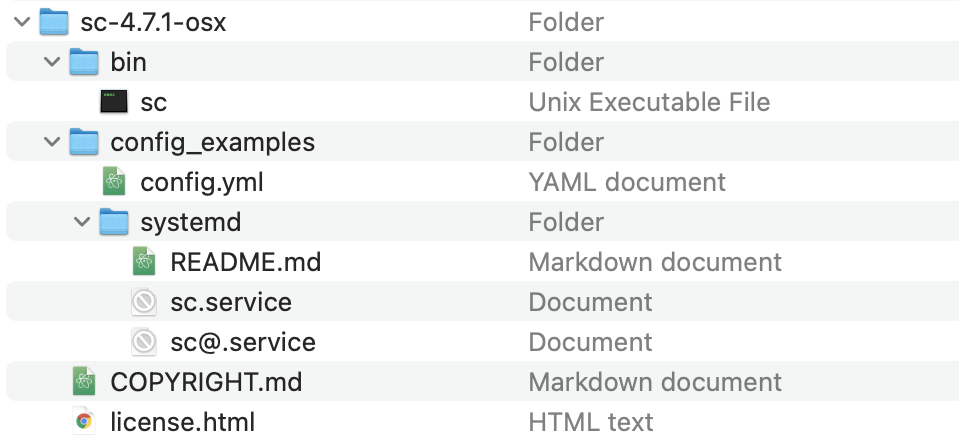
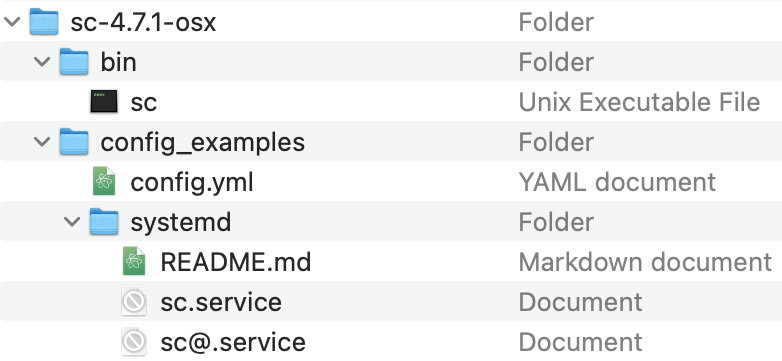
SC quickstart

diff --git a/docs/secure-connections/sauce-connect/quickstart.md b/docs/secure-connections/sauce-connect/quickstart.md
@@ -14,14 +14,17 @@ Using older Sauce Connect versions may impact your ability to launch a tunnel or
 
 Get up and running with a basic Sauce Connect Proxy tunnel in minutes using the steps below.
 
+
 ## What You'll Need
 
-* Have the [latest Sauce Connect Proxy client version](/secure-connections/sauce-connect/installation) downloaded to your local machine's home directory.
+* Have the [Sauce Connect Proxy client](/secure-connections/sauce-connect/installation) downloaded to your local machine.
+
 
 ## Start Tunnel
 
-1. Open your local terminal and navigate to the bin folder, which contains the Sauce Connect Proxy client.<br/><img src={useBaseUrl('img/sauce-connect/scp-bin.png')} alt="Sauce Connect download file contents" width="350" />
+These instructions assume that Sauce Connect Proxy is downloaded to your machine's home directory (i.e., ~/sc-4.7.1-osx).
 
+1. Open your local terminal and navigate to the bin folder, which contains the Sauce Connect Proxy client.
   <Tabs
     defaultValue="Mac"
     values={[
@@ -44,6 +47,8 @@ Get up and running with a basic Sauce Connect Proxy tunnel in minutes using the 
   </TabItem>
   </Tabs>
 
+  <img src={useBaseUrl('img/sauce-connect/scp-bin.png')} alt="Sauce Connect download file contents" width="350" />
+
 2. Log in to Sauce Labs.
 3. Go to the **Tunnels** page.<br/><img src={useBaseUrl('img/sauce-connect/tunnelsPage.png')} alt="Sauce Connect Proxy Tunnels page" width="200"/>
 4. On the **Tunnels** page, skip to **STEP 3: Configure & Authenticate** and copy the run command. This snippet contains your [username](/dev/cli/sauce-connect-proxy/#--user), [access key](/dev/cli/sauce-connect-proxy/#--api-key), [data center](/dev/cli/sauce-connect-proxy/#--region), and a [tunnel name](/dev/cli/sauce-connect-proxy/#--tunnel-name).<br/><img src={useBaseUrl('img/sauce-connect/configureAuth.png')} alt="Sauce Connect Proxy Tunnels page snippet" width="500"/>
@@ -52,12 +57,12 @@ Get up and running with a basic Sauce Connect Proxy tunnel in minutes using the 
 
 ## Verify Tunnel Success
 
-7. To verify that your tunnel is up and running, there are two places you can check: the [command-line interface](/secure-connections/sauce-connect/proxy-tunnels/#command-line-interface) and [**Tunnels** page](/secure-connections/sauce-connect/proxy-tunnels/#tunnels-page).
+7. To verify that your tunnel is up and running, there are two places you can check: the [CLI](/secure-connections/sauce-connect/proxy-tunnels/#command-line-interface) or the [**Tunnels** page](/secure-connections/sauce-connect/proxy-tunnels/#tunnels-page).
 
 
 ## Run Local Test
 
-Try running a Live Cross-Browser or Mobile App local test through your tunnel. Sauce Connect is required to run a test on app or website that's on your local machine or behind a firewall.
+Try running a Live local test (either Cross-Browser or Mobile App) through your tunnel. Sauce Connect is required to run a test on an app or website located on your local machine or behind a firewall.
 
 <Tabs
     defaultValue="Web"
@@ -69,48 +74,35 @@ Try running a Live Cross-Browser or Mobile App local test through your tunnel. S
 
 <TabItem value="Web">
 
-9. Go back to Sauce Labs and click **LIVE** > **Cross Browser** > **Desktop** tab.
-10. Select desired configuration:
-    * In the **URL** field, input the URL for your local website under test (e.g., `http://localhost:3000`).
-    * Click the **Sauce Connect Proxy** dropdown and select the name of the tunnel you've launched.
-    * Choose a **BROWSER SELECTION**, **RESOLUTION**, and **OS VERSION** from those dropdown menus.
-    * Click **Start Test** to launch your test.
-11. Use your mouse cursor and keyboard to interact with your website under test. For more details, see [Live Desktop Test Interface](/web-apps/live-testing/live-cross-browser-testing/#live-desktop-test-interface). When you're done testing, move to the next step to learn how to stop a tunnel.
+8. From Sauce Labs, click **Live** > **Cross Browser** > **Desktop**.
+9. Enter the URL for your local website under test (e.g., `http://localhost:3000`), select your tunnel from the **Sauce Connect Proxy** dropdown, and choose your [desired browser configuration](/web-apps/live-testing/live-cross-browser-testing/#testing-on-a-desktop-browser).
+10. Click **Start Test** to launch your test, then use your mouse cursor and keyboard to [interact with your website under test](/web-apps/live-testing/live-cross-browser-testing/#live-desktop-test-interface).
 
 </TabItem>
 <TabItem value="Mobile Browser">
 
-9. Go back to Sauce Labs and click **LIVE** > **Cross Browser** > **Mobile Virtual** or **Mobile Real** tab.
-10. Select desired configuration:
-    * In the **URL** field, input the URL for your local website under test (e.g., `http://localhost:3000`).
-    * Click the **Sauce Connect Proxy** dropdown and select the name of the tunnel you've launched.
-    * For **Mobile Virtual**, choose a **MANUFACTURER**, **DEVICE**, and **OS VERSION** from those dropdown menus. For **Mobile Real**, click a device from the menu.
-    * Click **Start Test** to launch your test.
-11. Use your mouse cursor and keyboard to interact with your website under test. For more details, see [Testing on a Mobile Browser](/web-apps/live-testing/live-cross-browser-testing/#testing-on-a-mobile-browser). When you're done testing, move to the next step to learn how to stop a tunnel.
+8. From Sauce Labs, click **Live** > **Cross Browser** > **Mobile Virtual** or **Mobile Real**.
+9. Enter the URL for your local website under test (e.g., `http://localhost:3000`), select your tunnel from the **Sauce Connect Proxy** dropdown, and choose your [**Mobile Virtual**](/web-apps/live-testing/live-cross-browser-testing/#virtual-device) or [**Mobile Real** configuration](/web-apps/live-testing/live-cross-browser-testing/#real-device).
+10. Click **Start Test** to launch your test, then use your mouse cursor and keyboard to [interact with your site under test](/web-apps/live-testing/live-cross-browser-testing/#testing-on-a-mobile-browser).
 
 </TabItem>
 <TabItem value="Mobile App">
 
-9. If you want to test a native mobile app, you'll need to [upload it to Sauce Storage](/mobile-apps/live-testing/live-mobile-app-testing/#uploading-an-app) or to [another location](/mobile-apps/app-storage/#uploading-apps-via-rest-api) where our emulators, simulators, and real devices can connect to it.
-10. Hover your mouse over the app line item and click **Choose Device**, then select desired configuration:
-    * Click the **Sauce Connect Proxy** dropdown and select the name of the tunnel you've launched.
-    * For **Mobile Virtual**, choose a **MANUFACTURER**, **DEVICE**, and **OS VERSION** from those dropdown menus. For **Mobile Real**, click a device from the menu.
-    * Click **Start Test** to launch your test.
-11. Use your mouse cursor and keyboard to interact with your website under test. For more details, see [Live Mobile App Test Interface](/mobile-apps/live-testing/live-mobile-app-testing/#live-test-interface). When you're done testing, move to the next step to learn how to stop a tunnel.
+8. Upload your native mobile app file to [Sauce Storage](/mobile-apps/live-testing/live-mobile-app-testing/#uploading-an-app) or to another location where our emulators, simulators, and real devices can connect to it (see [Uploading via REST API](/mobile-apps/app-storage/#uploading-apps-via-rest-api)).
+9. [Choose your device](/mobile-apps/live-testing/live-mobile-app-testing/#selecting-a-device), select your desired [**Mobile Virtual**](/mobile-apps/live-testing/live-mobile-app-testing/#virtual-devices) or [**Mobile Real**](/mobile-apps/live-testing/live-mobile-app-testing/#real-devices) configuration, and select your tunnel from the **Sauce Connect Proxy** dropdown.
+10. Click **Start Test** to launch your test, then use your mouse cursor and keyboard to [interact with your app under test](/mobile-apps/live-testing/live-mobile-app-testing/#live-test-interface).
 
 </TabItem>
 </Tabs>
 
 ## Stop Tunnel
 
-12. To stop your tunnel, choose from one of the below options:
-    * [Command Line (Using Ctrl+C)](/secure-connections/sauce-connect/proxy-tunnels/#to-stop-a-single-tunnel-ctrlc)
-    * [Tunnels Page (Using Stop button)](/secure-connections/sauce-connect/proxy-tunnels/#to-stop-a-single-tunnel)
+11. To stop your tunnel when you're finished testing, you can do so from the [CLI](/secure-connections/sauce-connect/proxy-tunnels/#to-stop-a-single-tunnel-ctrlc) or [Tunnels Page](/secure-connections/sauce-connect/proxy-tunnels/#from-the-tunnels-page).
 
 
 ## More Information
 
 * [Sauce School | Sauce Connect Proxy Course](https://training.saucelabs.com/sauceconnect/)
 * [Sauce Connect Proxy CLI](/dev/cli/sauce-connect-proxy/)
-* [Sauce Connect Proxy Configurations](/secure-connections/sauce-connect/setup-configuration/basic-setup/)
-* [Recommended: Set Your Username and Access Key as Environment Variables](/secure-connections/sauce-connect/setup-configuration/environment-variables/)
+* [Sauce Connect Proxy Basic Configuration](/secure-connections/sauce-connect/setup-configuration/basic-setup/)
+* [Setting Your Username and Access Key as Environment Variables](/secure-connections/sauce-connect/setup-configuration/environment-variables/)

diff --git a/docs/secure-connections/sauce-connect/installation.md b/docs/secure-connections/sauce-connect/installation.md
@@ -15,40 +15,33 @@ This topic describes where and how to download Sauce Connect Proxy to your local
 * Review [Sauce Connect Proxy System and Network Requirements](/secure-connections/sauce-connect/system-requirements/).
 
 
-## Running the Sauce Connect Proxy Client
+## Sauce Connect Proxy Client
 
-1. Download the latest Sauce Connect Proxy client to your local machine by clicking the link below corresponding to your OS. If applicable, delete any previous versions you have. Using older versions may impact your ability to launch a tunnel or cause other technical issues.
+1. Download the latest Sauce Connect Proxy client to your local machine by clicking the link below corresponding to your OS.
   <ScTable></ScTable>
 
-  For version information, see [Sauce Connect Proxy Changelog](https://changelog.saucelabs.com/en?category=sauce%20connect).
+  If applicable, delete any previous versions you have. Using older versions may impact your ability to launch a tunnel or cause other technical issues.
 
+2. Extract the contents of the .zip download to your local machine. For easy access, we recommend saving the Sauce Connect Proxy folder to your home directory (i.e., ~/sc-4.7.1-osx).
 
-2. Extract the contents of the .zip download to your local machine. For easy access, we recommend saving the Sauce Connect Proxy folder to your home directory. The folder contains the following:<br/><img src={useBaseUrl('img/sauce-connect/scp-download.png')} alt="Sauce Connect download file contents" width="450" />
+  The folder contains the following:<br/><img src={useBaseUrl('img/sauce-connect/scp-download.png')} alt="Sauce Connect download file contents" width="400" />
   <table>
   <tr>
-   <td><strong>File</strong></td>
+   <td>File</td>
    <td>Description</td>
   </tr>
   <tr>
-    <td><strong>sc</strong> (Mac) / <strong>sc.exe</strong> (Windows)</td>
-    <td>Sauce Connect client executable file.</td>
+    <td><strong>sc</strong> (macOS) or <strong>sc.exe</strong> (Windows)</td>
+    <td>Sauce Connect Proxy client executable file.</td>
    </tr>
    <tr>
     <td><strong>config.yml</strong></td>
-   <td><a href="/secure-connections/sauce-connect/setup-configuration/yaml-config">Sauce Connect Proxy YAML configuration file template</a>.</td>
+   <td>Sauce Connect Proxy <a href="/secure-connections/sauce-connect/setup-configuration/yaml-config">YAML configuration file template</a>.</td>
    </tr>  
    <tr>
    <td><strong>sc.service</strong>, <strong>sc@.service</strong></td>
    <td>Sample files intended for use with the <a href="/secure-connections/sauce-connect/proxy-tunnels/#service-management-tools">systemd service manager</a>, an alternative way to start and stop Sauce Connect Proxy tunnels. Consult the <strong>README.md</strong> for more information.</td>
    </tr>  
-   <tr>
-    <td><strong>COPYRIGHT.md</strong></td>
-    <td>Sauce Connect Open Source Software Declaration.</td>
-   </tr>
-   <tr>
-    <td><strong>license.html</strong></td>
-    <td>Sauce Labs, Inc. End User Agreement.</td>
-   </tr>
   </table>
 
 
@@ -64,7 +57,7 @@ This topic describes where and how to download Sauce Connect Proxy to your local
 See the [Sauce Connect Proxy Quickstart](/secure-connections/sauce-connect/quickstart/) to learn how to start a basic tunnel.
 :::
 
-## Running Sauce Connect in Docker
+## Sauce Connect in Docker
 
 As an alternative to downloading the client, you can use the Sauce Connect Proxy Docker image to run it in a Docker container. To learn more, see [Sauce Connect Docker Container Setup](/secure-connections/sauce-connect/setup-configuration/specialized-environments/#sauce-connect-docker-container-setup).
 
@@ -249,5 +242,6 @@ The launch of Sauce Connect 4.7.1 makes it the officially supported version of t
 
 ## More Information
 
+* [Sauce Connect Proxy Changelog](https://changelog.saucelabs.com/en?category=sauce%20connect)
 * [Sauce Connect Proxy CLI Reference](/dev/cli/sauce-connect-proxy/)
 * [Sauce Connect Proxy Architecture](/secure-connections/sauce-connect/advanced/architecture/)
